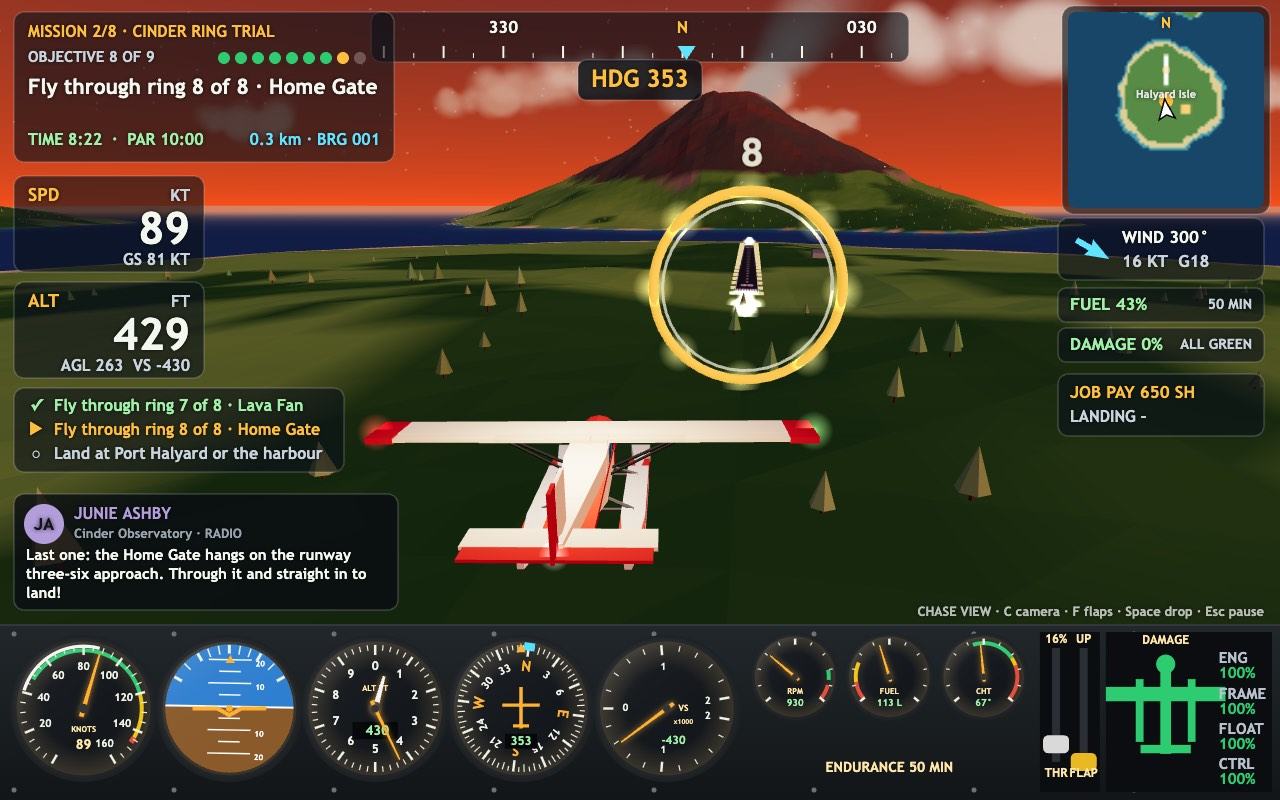
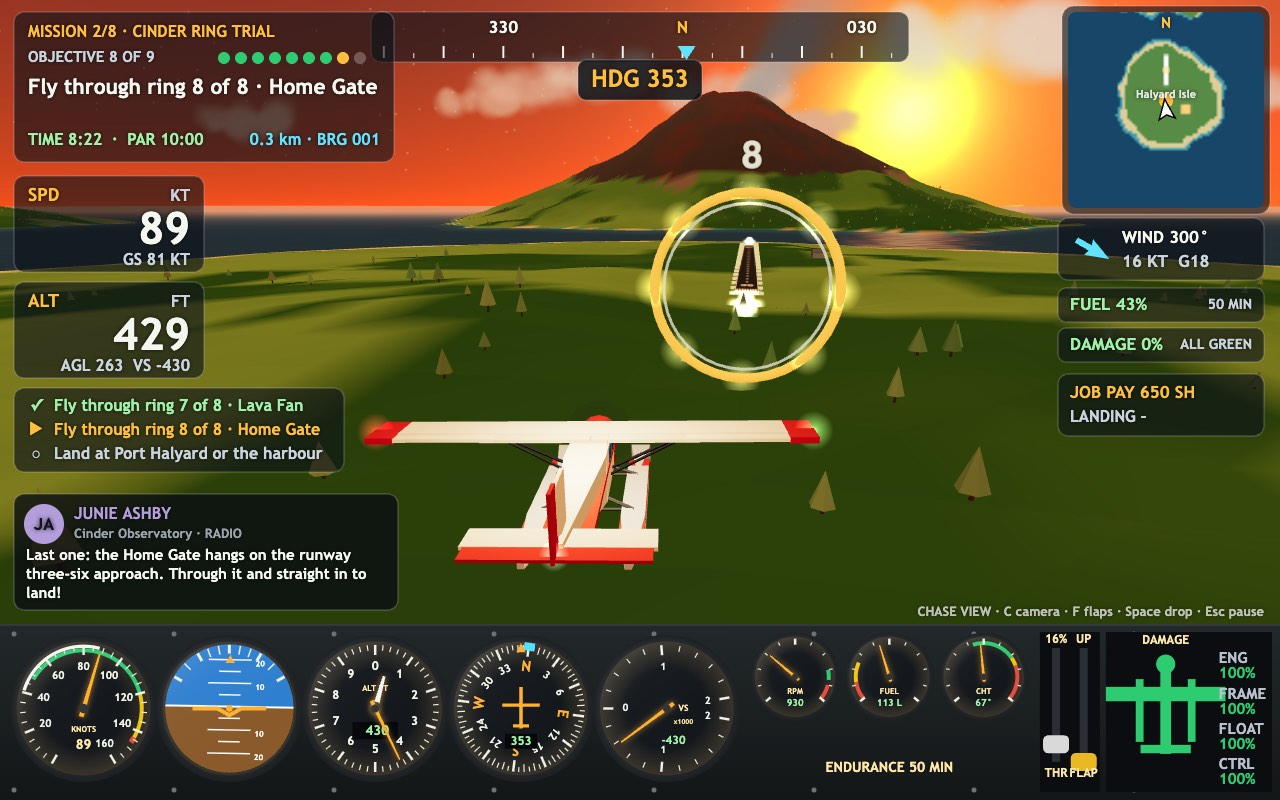
feat(render): low dusk sun ahead with halo, sea glitter and warm fill
Dusk now sets the sun low in the north, so the cover looks into it: a wide
halo beside the volcano, a brighter sun path on coarser ripples, warmer
sky fill and a side fill light so the ground and the Tern are not black.
Also changes the look of the medevac and dead-stick missions.

diff --git a/game/src/render/skyAndWater.js b/game/src/render/skyAndWater.js
@@ -16,15 +16,17 @@ export function buildSky(time) {
       horizon: { value: new THREE.Color(time.skyHorizon) },
       sunColor: { value: new THREE.Color(time.sunDisc) },
       sunDir: { value: sunDir },
+      halo: { value: time.halo ?? 0 },
     },
     vertexShader: `varying vec3 vDir; void main(){ vDir = normalize(position); gl_Position = projectionMatrix * modelViewMatrix * vec4(position,1.0); }`,
-    fragmentShader: `uniform vec3 top; uniform vec3 horizon; uniform vec3 sunColor; uniform vec3 sunDir; varying vec3 vDir;
+    fragmentShader: `uniform vec3 top; uniform vec3 horizon; uniform vec3 sunColor; uniform vec3 sunDir; uniform float halo; varying vec3 vDir;
       void main(){
         float h = clamp(vDir.y, -0.2, 1.0);
         vec3 col = mix(horizon, top, pow(max(h, 0.0), 0.55));
         if (h < 0.0) col = mix(horizon, horizon * 0.7, -h * 4.0);
         float s = max(dot(normalize(vDir), normalize(sunDir)), 0.0);
         col += sunColor * (pow(s, 900.0) * 1.6 + pow(s, 12.0) * 0.25);
+        col += sunColor * halo * (pow(s, 250.0) * 1.2 + pow(s, 40.0) * 0.45 + pow(s, 4.0) * 0.18);
         gl_FragColor = vec4(col, 1.0);
       }`,
   });
@@ -92,7 +94,7 @@ export function buildClouds(time, weather, seed = 3) {
   return g;
 }
 
-function rippleTexture() {
+function rippleTexture(repeat) {
   const n = 256;
   const cv = document.createElement('canvas');
   cv.width = n; cv.height = n;
@@ -114,18 +116,20 @@ function rippleTexture() {
   ctx.putImageData(img, 0, 0);
   const tex = new THREE.CanvasTexture(cv);
   tex.wrapS = tex.wrapT = THREE.RepeatWrapping;
-  tex.repeat.set(220, 220);
+  tex.repeat.set(repeat, repeat);
   return tex;
 }
 
 export function buildWater(time) {
   const geo = new THREE.PlaneGeometry(60000, 60000, 1, 1);
   geo.rotateX(-Math.PI / 2);
-  const normalMap = rippleTexture();
+  // glitter: a broader, brighter sun path on coarser ripples, so it reads from far away
+  const glitter = time.glitter ?? 0;
+  const normalMap = rippleTexture(glitter ? 110 : 220);
   const mat = new THREE.MeshPhongMaterial({
     color: time.water,
-    specular: new THREE.Color(time.sunDisc).multiplyScalar(0.6),
-    shininess: 60,
+    specular: new THREE.Color(time.sunDisc).multiplyScalar(glitter || 0.6),
+    shininess: glitter ? 28 : 60,
     normalMap,
     normalScale: new THREE.Vector2(0.35, 0.35),
     transparent: true,

diff --git a/game/src/render/timeOfDay.js b/game/src/render/timeOfDay.js
@@ -13,8 +13,10 @@ export const TIMES = {
     water: 0x2a87a8, waterDeep: 0x175a80, stars: 0, windows: 0, sunDisc: 0xffffff,
   },
   dusk: {
-    label: 'Dusk', skyTop: 0x3a3f78, skyHorizon: 0xff9a5a, fog: 0xc98c73, sun: 0xffa060, sunIntensity: 2.5,
-    sunDir: [0.7, 0.2, 0.55], hemiSky: 0xc0a8d8, hemiGround: 0x806040, hemiIntensity: 1.6,
+    label: 'Dusk', skyTop: 0x3a3f78, skyHorizon: 0xff9a5a, fog: 0xe0a07c, sun: 0xffa868, sunIntensity: 2.6,
+    sunDir: [0.22, 0.13, -0.97], hemiSky: 0xffc8a0, hemiGround: 0x8a6040, hemiIntensity: 1.9,
+    // low sun in the north: a wide halo, a glitter path on the sea, a warm fill from behind
+    halo: 1, glitter: 1.6, rimFill: 0.8,
     water: 0x3c5c82, waterDeep: 0x22385c, stars: 0.25, windows: 0.7, sunDisc: 0xffc070,
   },
   night: {

diff --git a/game/src/render/worldScene.js b/game/src/render/worldScene.js
@@ -46,6 +46,12 @@ export function buildWorld(timeId, weatherId, seed = 1) {
   const sun = new THREE.DirectionalLight(time.sun, time.sunIntensity);
   sun.position.set(...time.sunDir).multiplyScalar(5000);
   scene.add(hemi, sun);
+  if (time.rimFill) {
+    // a warm fill from the side away from a low sun, so faces turned from it are not black
+    const fill = new THREE.DirectionalLight(time.sun, time.rimFill);
+    fill.position.set(-time.sunDir[0], 0.6, -time.sunDir[2]).multiplyScalar(5000);
+    scene.add(fill);
+  }
   crater.children[1].intensity = time.windows > 0.6 ? 9e5 : 2e5;
 
   const plane = buildSeaplane();
